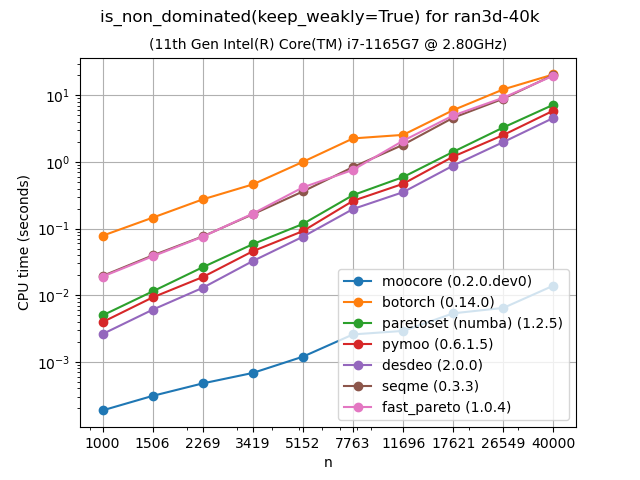
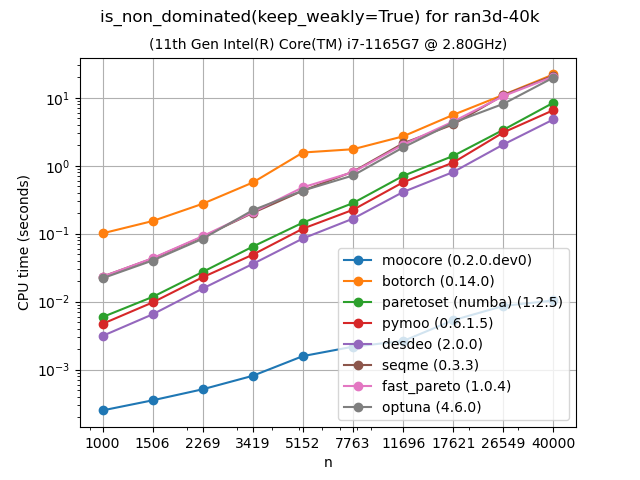
python/ Add Optuna to the benchmarks.

diff --git a/python/benchmarks/bench_ndom.py b/python/benchmarks/bench_ndom.py
@@ -25,10 +25,10 @@ from desdeo.tools.non_dominated_sorting import (
 )
 
 from paretoset import paretoset
-
 from seqme.core.rank import is_pareto_front as seqme_is_pareto_front
-
 from fast_pareto import is_pareto_front as fast_pareto_is_pf
+from optuna.study._multi_objective import _is_pareto_front as optuna_is_pf
+
 
 # See https://github.com/multi-objective/testsuite/tree/main/data
 files = {
@@ -67,36 +67,6 @@ def check_values(a, b, what, n, name):
     )
 
 
-title = "is_non_dominated(keep_weakly=False)"
-file_prefix = "ndom"
-names = files.keys()
-for name in names:
-    x = get_dataset(name)
-    n = get_geomrange(len(x), *files[name]["range"])
-
-    bench = Bench(
-        name=name,
-        n=n,
-        setup=setup,
-        bench={
-            "moocore": lambda z: moocore.is_nondominated(
-                z, maximise=True, keep_weakly=False
-            ),
-            "botorch": lambda z: botorch_is_nondominated(z, deduplicate=True),
-            "paretoset (numba)": lambda z: paretoset(
-                z, sense=z.shape[1] * ["max"], distinct=True, use_numba=True
-            ),
-        },
-        check=check_values,
-    )
-
-    for maxrow in n:
-        bench(maxrow, x[:maxrow, :])
-
-    gc.collect()
-    bench.plots(file_prefix=file_prefix, title=title, log="xy")
-
-
 title = "is_non_dominated(keep_weakly=True)"
 file_prefix = "wndom"
 names = files.keys()
@@ -133,6 +103,9 @@ for name in names:
             "fast_pareto": lambda z: bool2pos(
                 fast_pareto_is_pf(-z, assume_unique_lexsorted=False)
             ),
+            "optuna": lambda z: bool2pos(
+                optuna_is_pf(-z, assume_unique_lexsorted=False)
+            ),
         },
         check=check_values,
     )
@@ -143,6 +116,35 @@ for name in names:
     gc.collect()
     bench.plots(file_prefix=file_prefix, title=title, log="xy")
 
+
+title = "is_non_dominated(keep_weakly=False)"
+file_prefix = "ndom"
+names = files.keys()
+for name in names:
+    x = get_dataset(name)
+    n = get_geomrange(len(x), *files[name]["range"])
+
+    bench = Bench(
+        name=name,
+        n=n,
+        setup=setup,
+        bench={
+            "moocore": lambda z: moocore.is_nondominated(
+                z, maximise=True, keep_weakly=False
+            ),
+            "botorch": lambda z: botorch_is_nondominated(z, deduplicate=True),
+            "paretoset (numba)": lambda z: paretoset(
+                z, sense=z.shape[1] * ["max"], distinct=True, use_numba=True
+            ),
+        },
+        check=check_values,
+    )
+
+    for maxrow in n:
+        bench(maxrow, x[:maxrow, :])
+
+    gc.collect()
+    bench.plots(file_prefix=file_prefix, title=title, log="xy")
 
 if "__file__" not in globals():  # Running interactively.
     plt.show()

diff --git a/python/benchmarks/bench_hv.py b/python/benchmarks/bench_hv.py
@@ -18,7 +18,7 @@ from pymoo.indicators.hv import Hypervolume as pymoo_HV
 from jmetal.core.quality_indicator import HyperVolume as jmetal_HV
 from nevergrad.optimization.multiobjective import HypervolumeIndicator as ng_HV
 from fast_pareto import hypervolume as fp_hv
-
+from optuna._hypervolume import compute_hypervolume as optuna_hv
 # from trieste.acquisition.multi_objective import Pareto as trieste_Pareto
 # import tensorflow as tf
 
@@ -67,15 +67,19 @@ for name in names:
         "pymoo": lambda z, hv=pymoo_HV(ref_point=ref): hv(z),
         "jMetalPy": lambda z, hv=jmetal_HV(ref): hv.compute(z),
         "nevergrad": lambda z, hv=ng_HV(ref): hv.compute(z),
+        "optuna": lambda z, ref=ref: optuna_hv(
+            z, reference_point=ref, assume_pareto=False
+        ),
         "botorch": lambda z,
         hv=botorch_HV(ref_point=torch.from_numpy(-ref)): hv.compute(z),
         "fast_pareto": lambda z, ref=ref: fp_hv(
             z, ref_point=ref, assume_pareto=False
         ),
     }
+    # Too slow to run.
     if dim >= 6:
-        # Nevergrad is too slow
         del benchmarks["nevergrad"]
+        del benchmarks["optuna"]
     if dim >= 4:
         ## Trieste is hundreds of times slower than botorch. It is so slow that
         ## we cannot run the benchmark with the initial value of 500 points.

diff --git a/python/doc/source/benchmarks.inc.rst b/python/doc/source/benchmarks.inc.rst
@@ -1,7 +1,7 @@
 Benchmarks
 ==========
 
-The following plots compare the performance of `moocore`_, `pymoo`_, `BoTorch`_, `DESDEO`_, `paretoset`_, `Nevergrad`_, `jMetalPy`_, `seqme`_ and `fast-pareto`_.  Other Python packages are not included in the comparison because they are based on these packages for the functionality benchmarked, so they are **at least as slow** as them. For example `Xopt`_ and `BoFire`_ use `BoTorch`_, `pysamoo`_ is an extension of `pymoo`_, `DESDEO`_ already uses `moocore`_ for hypervolume and other quality metrics, and most of the multi-objective functionality of `DEAP`_ is shared by `pymoo`_.  We do not compare with the Bayesian optimization toolbox `trieste`_, because it is much slower than `BoTorch`_ and too slow to run the benchmarks in a reasonable time.
+The following plots compare the performance of `moocore`_, `pymoo`_, `BoTorch`_, `DESDEO`_, `paretoset`_, `Nevergrad`_, `jMetalPy`_, `seqme`_, `fast-pareto`_ and `Optuna`_.  Other Python packages are not included in the comparison because they are based on these packages for the functionality benchmarked, so they are **at least as slow** as them. For example `Xopt`_ and `BoFire`_ use `BoTorch`_, `pysamoo`_ is an extension of `pymoo`_, `DESDEO`_ already uses `moocore`_ for hypervolume and other quality metrics, and most of the multi-objective functionality of `DEAP`_ is shared by `pymoo`_.  We do not compare with the Bayesian optimization toolbox `trieste`_, because it is much slower than `BoTorch`_ and too slow to run the benchmarks in a reasonable time.
 
 Not all packages provide the same functionality. For example, `pymoo`_ does not provide the :ref:`epsilon indicator <epsilon_metric>` whereas `jMetalPy`_ does not provide the :ref:`IGD+ indicator <igd_hausdorf>`. `BoTorch`_ provides neither of them. `paretoset`_ and `fast-pareto`_ only identify nondominated points.
 
@@ -88,7 +88,10 @@ random within the hyper-cube.
 Exact computation of hypervolume
 --------------------------------
 
-The following plots compare the speed of computing the :ref:`hypervolume indicator <hypervolume_metric>` in 3D, 4D, 5D and 6D. As the plots show, `moocore`_ is 100 times faster than the other packages and 1000 times faster than `BoTorch`_ and, by extension, `Xopt`_ and `BoFire`_.  `BoTorch`_ and `fast-pareto`_ is not included for more than 3 objectives because **they are tens of thousands of times slower** than `moocore`_.  `Nevergrad`_ is not included for more than 5 objectives for the same reason.
+The following plots compare the speed of computing the :ref:`hypervolume indicator <hypervolume_metric>` in 3D, 4D, 5D and 6D. As the plots show, `moocore`_ is 100 times faster than the other packages and 1000 times faster than `BoTorch`_ and, by extension, `Xopt`_ and `BoFire`_.
+
+For 3D, `Optuna`_ uses a :math:`O(n^2)` algorithm, while `moocore` uses the best-known :math:`O(n\log n)` one, so the gap between the two will get significantly larger with a larger number of points than those tested here.  `BoTorch`_ and `fast-pareto`_ are not included for more than 3 objectives because **they are tens of thousands of times slower** than `moocore`_.  `Nevergrad`_ and `Optuna`_ are not included for more than 5 objectives for the same reason.
+
 
 |hv_bench-DTLZLinearShape-3d| |hv_bench-DTLZLinearShape-4d|
 
@@ -203,6 +206,7 @@ The following plots compare the speed of computing the :ref:`epsilon indicator  
 .. _DESDEO: https://desdeo.readthedocs.io/en/latest/
 .. _Nevergrad: https://facebookresearch.github.io/nevergrad/
 .. _Numba: https://numba.pydata.org/numba-doc/dev/index.html
+.. _Optuna: https://optuna.org/
 .. _Xopt: https://xopt.xopt.org/index.html
 .. _fast-pareto: https://github.com/nabenabe0928/fast-pareto
 .. _jMetalPy: https://jmetal.github.io/jMetalPy/index.html

diff --git a/python/doc/source/whatsnew/index.rst b/python/doc/source/whatsnew/index.rst
@@ -7,6 +7,7 @@ What's new
 Version 0.2.0 (development)
 ---------------------------
 
+- Optuna is now included in the benchmarks.
 - New :ref:`bench-ndsort` benchmarks.
 - :func:`~moocore.pareto_rank` is faster in 3D.
 
